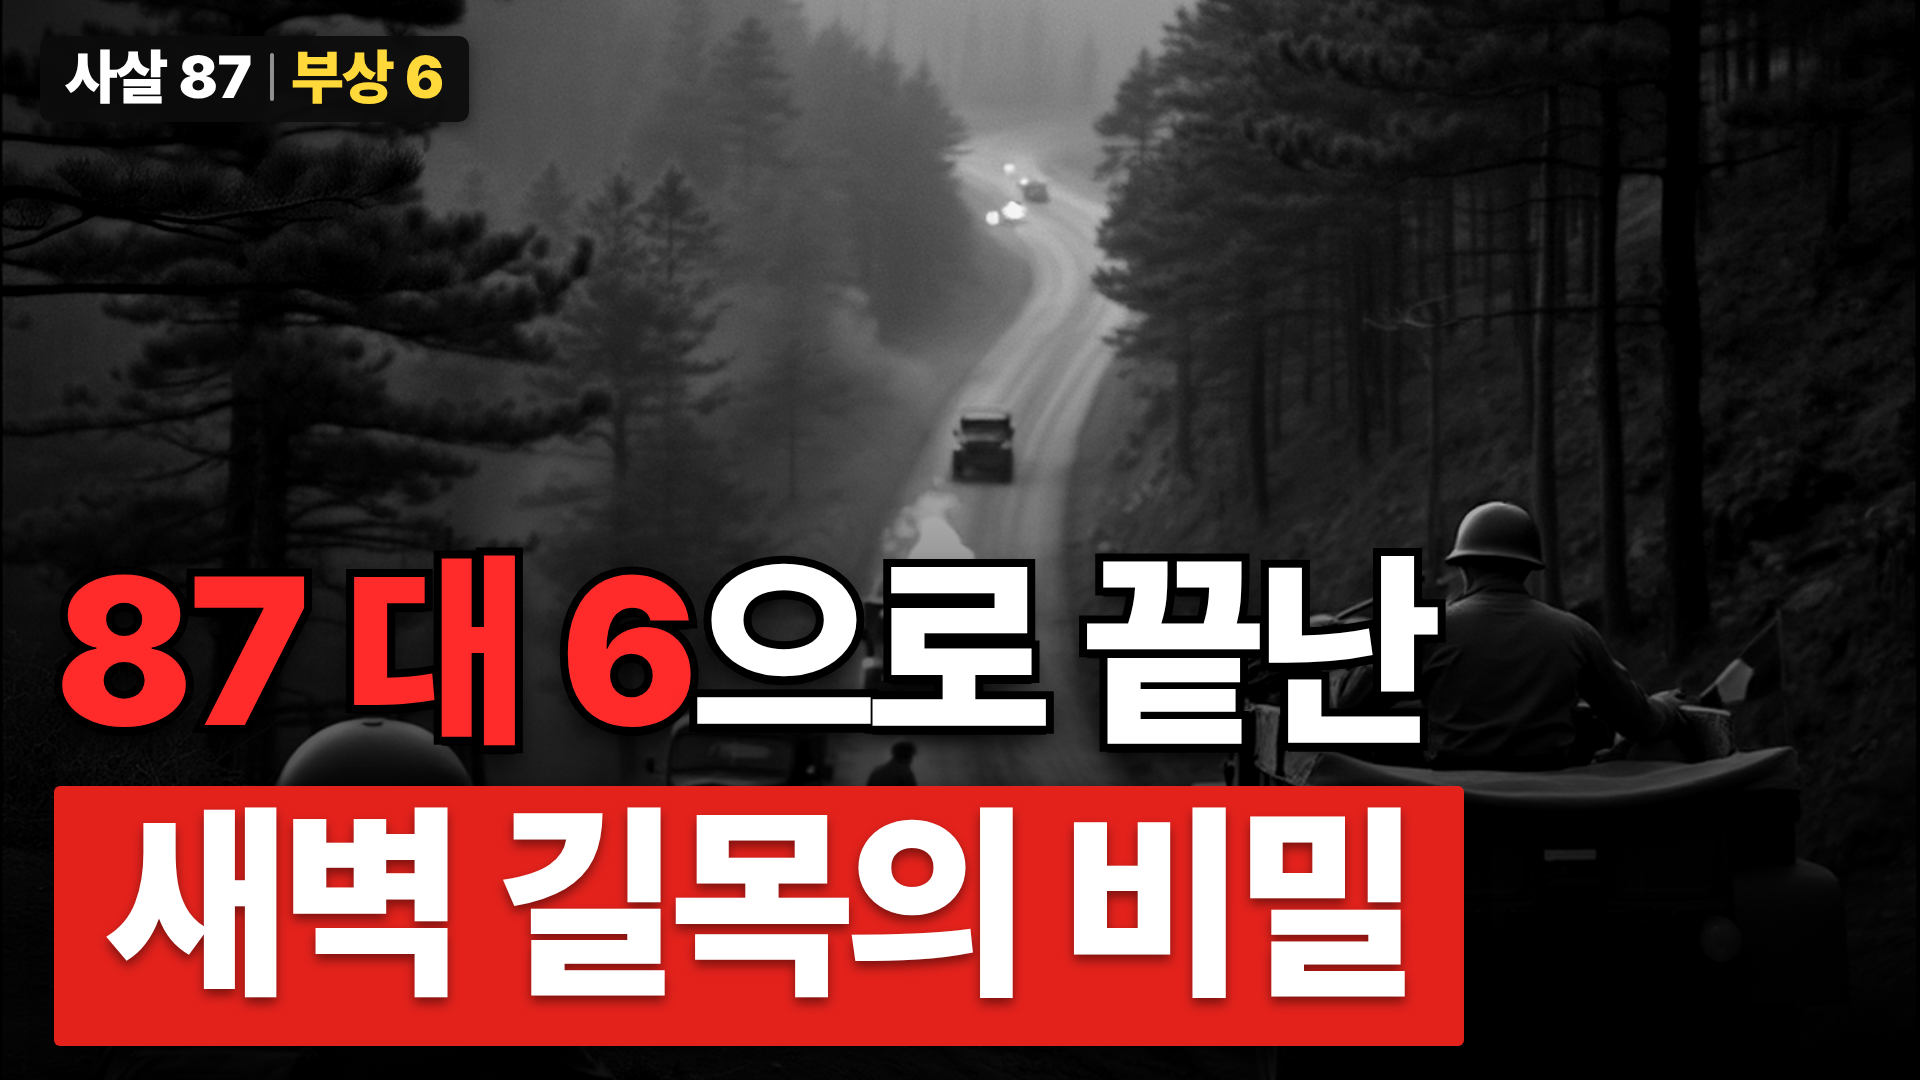
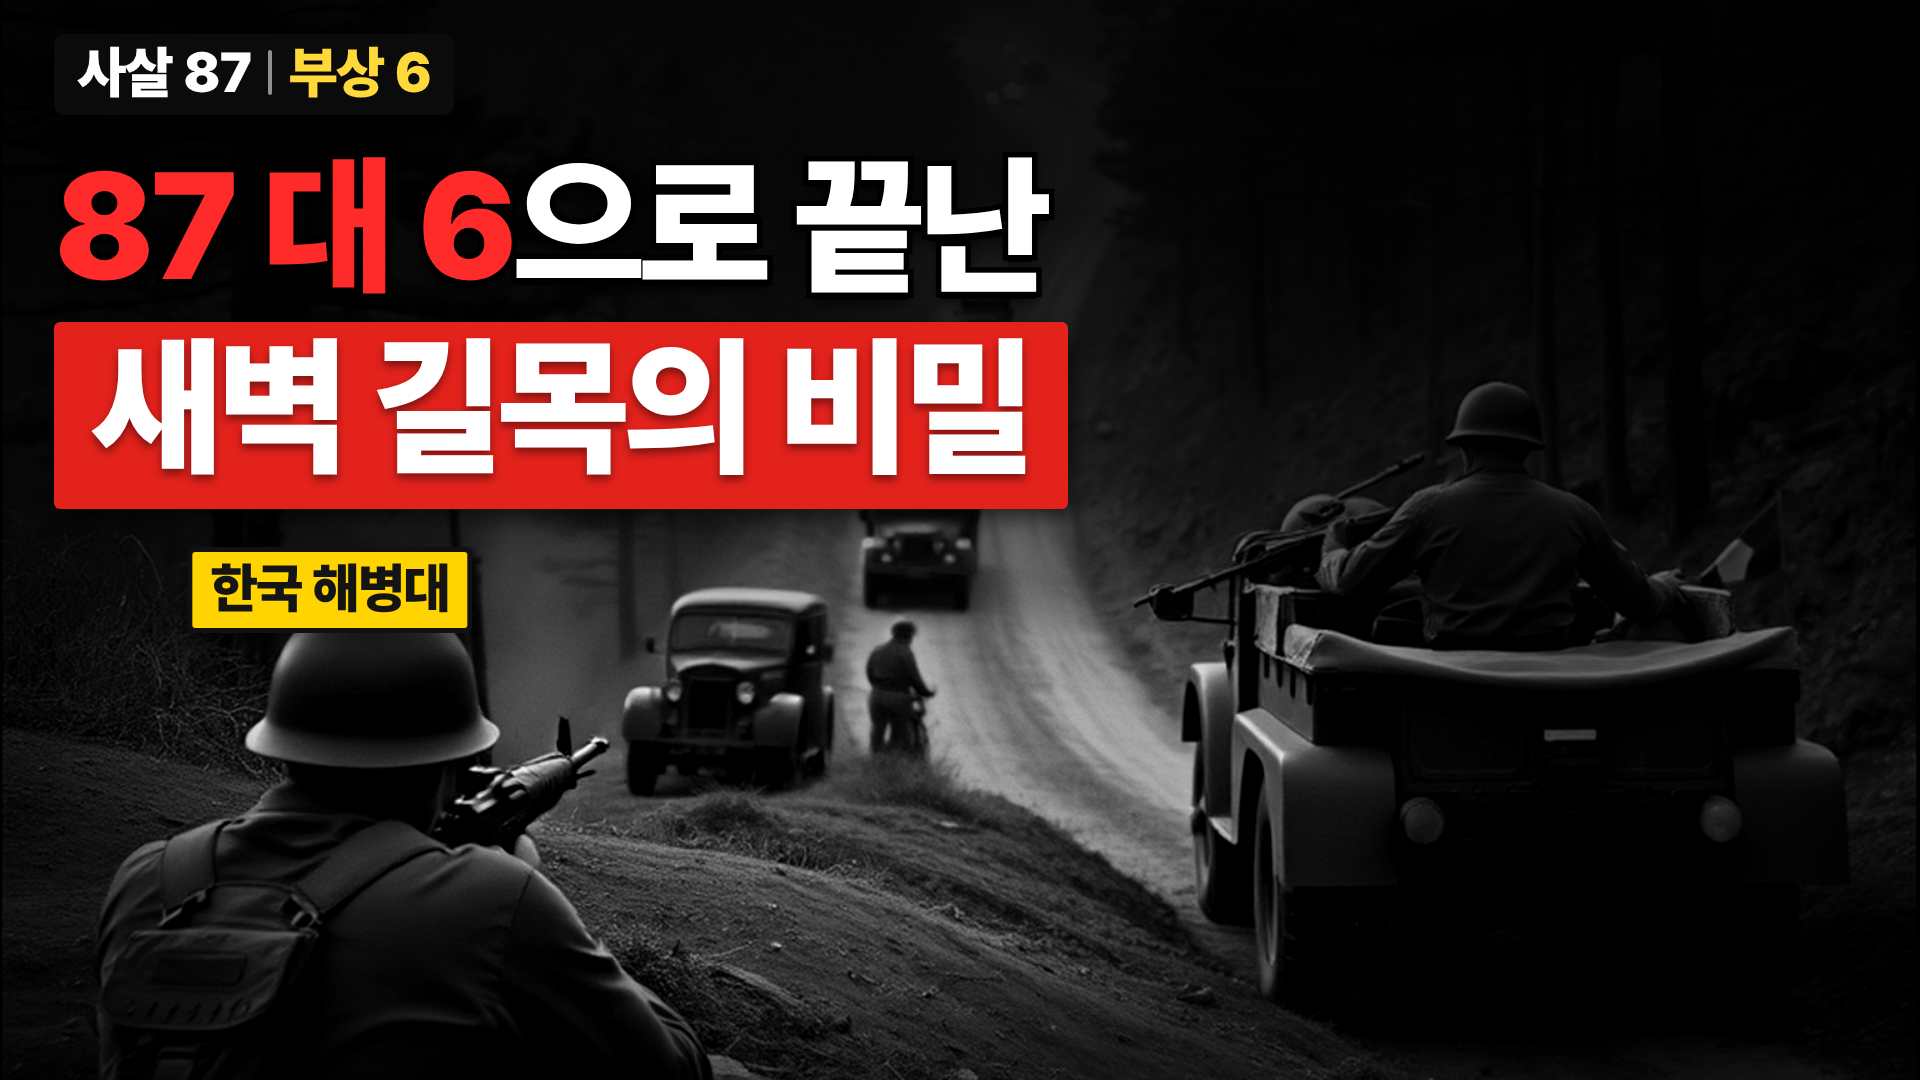
EP34 썸네일 v5 'TV 우선' 재작업 — 위쪽 글자·주인공 스포트라이트·이름표·시안 4개(A~A4)·점검 시트·thumb_plan
Claude-Session: https://claude.ai/code/session_01SkesRQusgUFU8k8rrjNcTH

diff --git a/remotion/Thumbnail.tsx b/remotion/Thumbnail.tsx
@@ -1502,17 +1502,31 @@ export interface ThumbV2Props {
 }
 export type ThumbNote = { text: string; x: number; y: number; to: [number, number]; size?: number };
 export const PAROHO_V2: Record<string, ThumbV2Props> = {
-  // EP34 해병대 진동리 지구 기습전 — 배경: 재연 그림 ambush_fire(능선에서 길 위 대열로 사격하는 해병대, Cloudflare 무료) 흑백
-  //   카피: 1950. 8. 3 고사리 — 해병대 전투일지 적 사살 87·포로 4·전차 2·차량 6 / 아군 부상 6(매일신문 2022), 창설 1949. 4. 15
+  // EP34 해병대 진동리 지구 기습전 — 썸네일 v5 'TV 우선 · 질문과 감정' (2026-11-26 재작업 · episodes/ep34-jindong/thumb_plan.md)
+  //   배경: 재연 그림(Cloudflare 무료) 흑백 — A·A2 ambush_fire(능선의 해병대와 멈춘 대열) · A3 burning_tank(멈춰 선 전차) · A4 gosari_road(전차·사이드카 대열)
+  //   숫자 출처: 1950. 8. 3 고사리 — 해병대 진동리 전투일지 적 사살 87·전차 2·차량 6 / 아군 부상 6(매일신문 2022) · 창설 1949. 4. 15 · 진주 함락 7. 31 → 사흘
   "ep34-jindong": {
     bg: "ep/ep34-jindong/ai/ambush_fire.jpg",
-    bgPos: "50% 40%",
+    bgPos: "50% 100%",
+    tv: true,
     tag: "진동리 고사리 | 1950.8",
     tagStyle: "red",
     line1: "창설 [1년] 해병대가",
     line2: "전차를 {멈춰 세운} 새벽",
-    alt: { tag: "사살 87 | 부상 6", tagStyle: "black", line1: "[87 대 6]으로 끝난", line2: "새벽 길목의 비밀", box2: true }, // ALTS:ep34-jindong
-  },
+    focus: { x: 760, y: 760, rx: 760, ry: 330 },
+    label: { text: "한국 해병대", x: 330, y: 560, style: "yellow" },
+    why: { q: "갓 만든 부대가 어떻게 전차를?", e: "통쾌함" },
+    alts: [
+      // A2 숫자 대비형 — 87 대 6
+      { tag: "사살 87 | 부상 6", tagStyle: "black", line1: "[87 대 6]으로 끝난", line2: "새벽 길목의 비밀", box2: true, why: { q: "어떻게 그 차이가?", e: "놀라움" } },
+      // A3 질문형(반전) — 밀리기만 하던 부대, 사흘 만에
+      { bg: "ep/ep34-jindong/ai/burning_tank.jpg", bgPos: "50% 0%", tag: "진주 함락 | 사흘 뒤", tagStyle: "cream", line1: "밀리기만 하던 해병대", line2: "사흘 만에 {달라진} 이유",
+        focus: { x: 900, y: 760, rx: 820, ry: 330 }, label: { text: "멈춰 선 전차", x: 1500, y: 560, style: "red" }, why: { q: "사흘 사이 무엇이?", e: "의아함·통쾌함" } },
+      // A4 미스터리형(적의 시선) — 앞에 적이 없다고 믿은 정찰대대
+      { bg: "ep/ep34-jindong/ai/gosari_road.jpg", bgPos: "50% 100%", tag: "북한군 제6사단 | 정찰대대", tagStyle: "black", line1: "적이 없다고 믿은", line2: "정찰대대의 [마지막 새벽]",
+        focus: { x: 760, y: 860, rx: 760, ry: 260 }, label: { text: "전차 · 사이드카 대열", x: 760, y: 600, style: "red" }, why: { q: "그 길목에 무엇이?", e: "긴장·불안" } },
+    ],
+  }, // ALTS:ep34-jindong n=3
   // EP33 진동리·마산 서북산 혈전 — 배경: 사료 사진 마산 일대에서 응사하는 미 제5연대전투단 4.2인치 박격포반(1950, 미 육군, 장면 s061 사진) 흑백
   //   카피: 1950. 8~9 서북산(해발 739m, 한국 기록) — 주인 19번(한국 기록·미군 정보 부사관 집계), 마산→부산 직선 40~50km, 북한군 제6사단
   "ep33-seobuksan": {

diff --git a/episodes/ep34-jindong/thumb_plan.md b/episodes/ep34-jindong/thumb_plan.md
@@ -1,0 +1,33 @@
+# ep34-jindong 썸네일 기획 (v5 'TV 우선 · 질문과 감정' — 2026-11-26 재작업)
+
+## 목표
+- 질문: 창설 1년 된(밀리기만 하던) 해병대가 어떻게 전차를 앞세운 정찰대대를 멈췄나 · 87 대 6이라는 차이는 어떻게 나왔나
+- 감정: 통쾌함(약자의 역전) · 의아함 · 긴장(새벽 매복)
+
+## 참고 (docs/THUMB_REFERENCES.md + 우리 채널)
+| 출처 | 참고 | 만드는 질문 | 만드는 감정 | 작동 원리(어떻게) |
+|---|---|---|---|---|
+| 우리 채널 잘된 편 | 격전의 지도 EP13 파로호 | 어떻게 이겼나 | 통쾌함 | 불리한 전제 → 의외의 결과를 2줄로 |
+| 우리 채널 | EP33 서북산 v4 '부산 턱밑까지 와서 / 산 하나 못 넘은 이유' | 왜 못 넘었나 | 의아함 | 장소 태그 + '~한 이유' 질문형 |
+| 남의 잘된 영상 | 낙동강 '트럭 300대가 / 30대만 남았다' | 나머지는? | 충격 | 숫자 두 개 대비만으로 사건이 그려짐 → A2 '87 대 6' |
+| 남의 잘된 영상 | 73 이스팅 (2줄째 빨간 박스) | 어떻게 그 결과가? | 통쾌함 | 결과 문장을 빨간 박스로 '판정'처럼 → A2 box2 |
+| 남의 잘된 영상 | 러일전쟁 · 6.25 전쟁 전날 | 그날 무슨 일이? | 긴장 | 날짜·시점 태그로 '그 순간'에 데려다 놓음 → A 태그 '진동리 고사리 1950.8', A3 '진주 함락 사흘 뒤' |
+| 남의 잘된 영상 | '아마존강에 다리가 없는 이유' | 왜? | 호기심 | 당연한 믿음의 '없음'을 묻기 → A4 '적이 없다고 믿은' |
+| 썸네일 강의 예시 | 다이빙 선수 (군더더기 지우고 주인공 색 + 짧은 이름표) | — | — | focus 스포트라이트 + 이름표 한 마디('한국 해병대'·'멈춰 선 전차') |
+| 썸네일 강의 예시 | Speed '5 Timeless Rules' | 결과가 뭐지? | 신뢰 | 결과 대신 '그 직전'을 보여 줌 → A4 매복 직전의 대열 |
+| 유튜브 밖 | 전쟁 영화 포스터(매복 직전 정적) | 곧 무슨 일이? | 긴장 | 어두운 위쪽 + 아래 작은 대열 → A4 구도 |
+
+## 시안 (4개 · 서로 다른 공식)
+- A 인물·감정형: [진동리 고사리 | 1950.8] 창설 1년 해병대가 / 전차를 멈춰 세운 새벽 — 질문: 갓 만든 부대가 어떻게? · 감정: 통쾌함
+- A2 숫자 대비형: [사살 87 | 부상 6] 87 대 6으로 끝난 / 새벽 길목의 비밀(빨간 박스) — 질문: 그 차이는? · 감정: 놀라움
+- A3 질문형(반전): [진주 함락 | 사흘 뒤] 밀리기만 하던 해병대 / 사흘 만에 달라진 이유 — 질문: 사흘 사이 무엇이? · 감정: 의아함·통쾌함
+- A4 미스터리형(적의 시선): [북한군 제6사단 | 정찰대대] 적이 없다고 믿은 / 정찰대대의 마지막 새벽 — 질문: 그 길목에 무엇이? · 감정: 긴장
+- 숫자 출처: 해병대 진동리 전투일지(사살 87·전차 2·차량 6), 매일신문 2022(부상 6), 창설 1949. 4. 15, 진주 함락 7. 31 → 8. 3 사흘
+- 영상 첫 장면 질문 카드("창설 1년 된 해병대는 어떻게 전차를 앞세운 적 정찰대대를 무너뜨렸나")와 같은 뜻 — A·A4
+
+## 점검 (thumbnails/ep34-jindong_check.jpg)
+- [x] TV 보기(위 절반)만으로 무슨 영상인지·궁금한지 보인다 — 태그 + 2줄이 위쪽 46%
+- [x] 휴대폰 추천 목록 크기(168px)에서 글자가 읽히고 주인공이 먼저 보인다
+- [x] 일하지 않는 요소가 없다 (이름표 1개씩만, 화살표·말풍선 없음)
+- [x] 숫자는 대본·출처가 있다
+- [x] 유튜브 '테스트 및 비교'에 올릴 3개 선택: A(인물·감정) · A2(숫자 대비) · A3(질문·반전) — 공식이 서로 달라 비교 의미가 큼. A4는 예비
